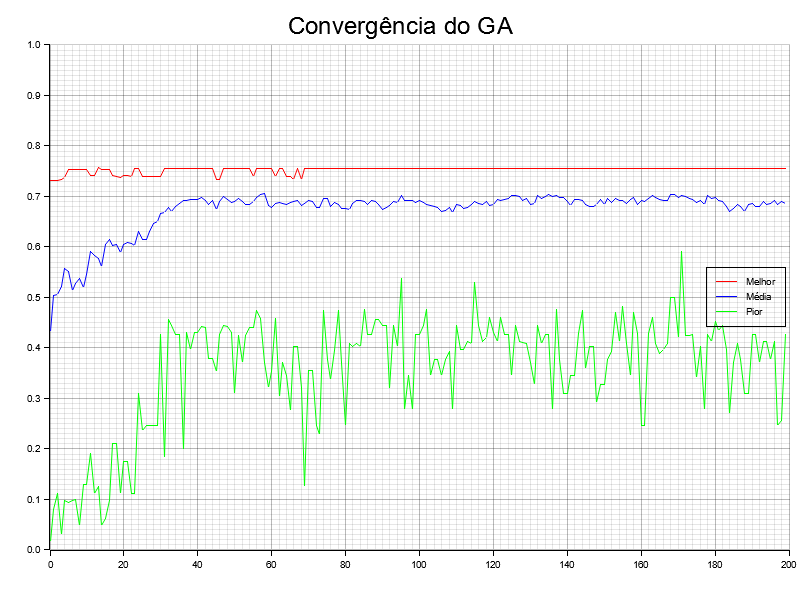
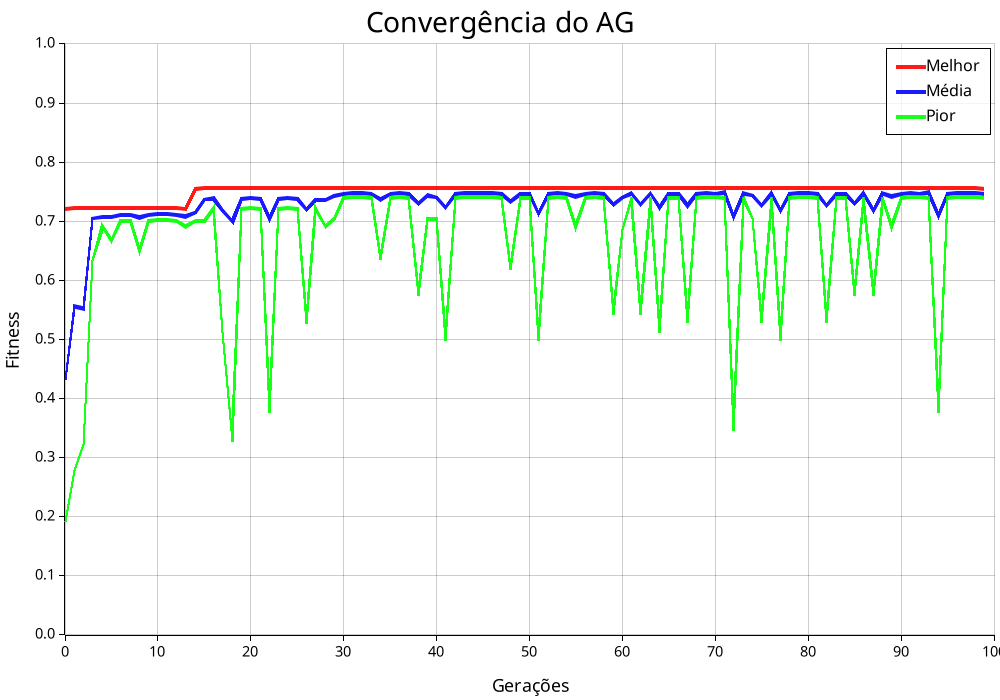
radios

Changed region(s): [[0.0, 0.0, 1.0, 0.99]]

diff --git a/src/utils/functions.rs b/src/utils/functions.rs
@@ -175,39 +175,68 @@ pub fn mutation(population: &mut [Indiv], mutation_prob: f64) {
     }
 }
 
+use plotters::prelude::*;
+
 pub fn plot_convergence(best: &[f64], mean: &[f64], worst: &[f64], filename: &str) {
     let gens = best.len();
-    let root = BitMapBackend::new(filename, (800, 600)).into_drawing_area();
+    let root = BitMapBackend::new(filename, (1000, 700)).into_drawing_area();
     root.fill(&WHITE).unwrap();
+
     let mut chart = ChartBuilder::on(&root)
-        .caption("Convergência do GA", ("sans-serif", 30))
-        .margin(10)
-        .x_label_area_size(40)
-        .y_label_area_size(40)
+        .caption("Convergência do AG", ("sans-serif", 35))
+        .margin(5)
+        .x_label_area_size(60)
+        .y_label_area_size(60)
         .build_cartesian_2d(0..gens, 0.0..1.0)
         .unwrap();
 
-    chart.configure_mesh().draw().unwrap();
+    chart
+        .configure_mesh()
+        .x_desc("Gerações")
+        .y_desc("Fitness")
+        .label_style(("sans-serif", 18))
+        .axis_desc_style(("sans-serif", 22))
+        .light_line_style(&WHITE.mix(0.8))
+        .draw()
+        .unwrap();
+
+    // Linhas mais grossas
+    chart
+    .draw_series(LineSeries::new(
+        best.iter().enumerate().map(|(i, &v)| (i, v)),
+        RED.mix(0.9).stroke_width(3),
+    ))
+    .unwrap()
+    .label("Melhor")
+    .legend(|(x, y)| PathElement::new(vec![(x, y), (x + 30, y)], RED.mix(0.9).stroke_width(3)));
 
     chart
-        .draw_series(LineSeries::new(best.iter().enumerate().map(|(i, &v)| (i, v)), &RED))
-        .unwrap()
-        .label("Melhor")
-        .legend(|(x, y)| PathElement::new(vec![(x, y), (x + 20, y)], &RED));
-
-    chart
-        .draw_series(LineSeries::new(mean.iter().enumerate().map(|(i, &v)| (i, v)), &BLUE))
+        .draw_series(LineSeries::new(
+            mean.iter().enumerate().map(|(i, &v)| (i, v)),
+            BLUE.mix(0.9).stroke_width(3),
+        ))
         .unwrap()
         .label("Média")
-        .legend(|(x, y)| PathElement::new(vec![(x, y), (x + 20, y)], &BLUE));
+        .legend(|(x, y)| PathElement::new(vec![(x, y), (x + 30, y)], BLUE.mix(0.9).stroke_width(3)));
 
     chart
-        .draw_series(LineSeries::new(worst.iter().enumerate().map(|(i, &v)| (i, v)), &GREEN))
+        .draw_series(LineSeries::new(
+            worst.iter().enumerate().map(|(i, &v)| (i, v)),
+            GREEN.mix(0.9).stroke_width(3),
+        ))
         .unwrap()
         .label("Pior")
-        .legend(|(x, y)| PathElement::new(vec![(x, y), (x + 20, y)], &GREEN));
+        .legend(|(x, y)| PathElement::new(vec![(x, y), (x + 30, y)], GREEN.mix(0.9).stroke_width(3)));
 
-    chart.configure_series_labels().border_style(&BLACK).draw().unwrap();
+
+    chart
+        .configure_series_labels()
+        .background_style(&WHITE.mix(0.8))
+        .border_style(&BLACK)
+        .label_font(("sans-serif", 20))
+        .position(SeriesLabelPosition::UpperRight)
+        .draw()
+        .unwrap();
 }
 
 pub fn tournament_selection(population: &[Indiv], num_pairs: usize, k: usize) -> Vec<(&Indiv, &Indiv)> {

diff --git a/src/sat.rs b/src/sat.rs
@@ -129,9 +129,9 @@ pub fn run_3sat(pop: usize, gens: usize, runs: usize, crossover_prob: f64, mutat
             mean_per_gen.push(mean);
             worst_per_gen.push(worst);
 
-            let selecionados = tournament_selection(&evaluated, evaluated.len() / 2, 4);
-            let mut crossover = apply_crossover(&selecionados, crossover_prob);
-            //let mut crossover = uniform_crossover(&selecionados, crossover_prob);
+            let selecionados = tournament_selection(&evaluated, evaluated.len() / 2, 3);
+            //let mut crossover = apply_crossover(&selecionados, crossover_prob);
+            let mut crossover = uniform_crossover(&selecionados, crossover_prob);
 
             mutation(&mut crossover, mutation_prob);
 

diff --git a/src/main.rs b/src/main.rs
@@ -29,7 +29,7 @@ fn main() {
     // Parametros: POP, DIM, GENS, RUNS
 
     // Exercicio 3 SAT
-    run_3sat(pop_size, gens, runs, 0.9, 0.02, "./sat.cnf");
+    //run_3sat(pop_size, gens, runs, 0.8, 0.015, "./sat.cnf");
 
     // EX 1: Maximização de Função Algébrica 
     // valor otimo para X = 1.8904170901022
@@ -48,7 +48,7 @@ fn main() {
     // Objective function = (30.0 * st + 40.0 * lx) / 1360.0
     // Penalty funciton = ((st + 2.0 * lx - 40.0) / 16.0).max(0.0)
     // Fitness = Objective function - k * Penalty funciton
-    //run_exercicio2(pop_size, 10, gens, runs, 0.8, 0.005, 1.0)
+    run_exercicio2(pop_size, 10, gens, runs, 0.9, 0.005, 1.0)
 }
 
 // TO-DO:

diff --git a/src/exercicios/exercicio2.rs b/src/exercicios/exercicio2.rs
@@ -77,8 +77,10 @@ pub fn run_exercicio2(pop: usize, dim: usize, gens: usize, runs: usize, crossove
             mean_per_gen.push(mean);
             worst_per_gen.push(worst);
 
-            let selecionados = roulette(&evaluated, evaluated.len() / 2);
+            // let selecionados = roulette(&evaluated, evaluated.len() / 2);
+            let selecionados = tournament_selection(&evaluated, evaluated.len() / 2, 3);
             let mut crossover = apply_crossover(&selecionados, crossover_prob);
+            //let mut crossover = uniform_crossover(&selecionados, crossover_prob);
 
             mutation(&mut crossover, mutation_prob);
 
